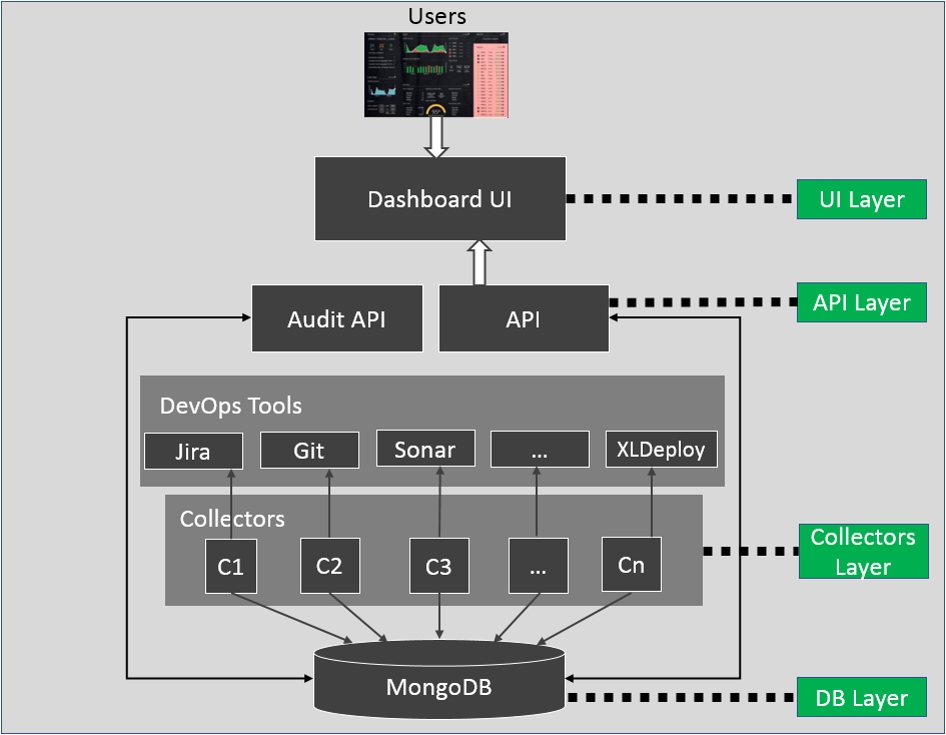
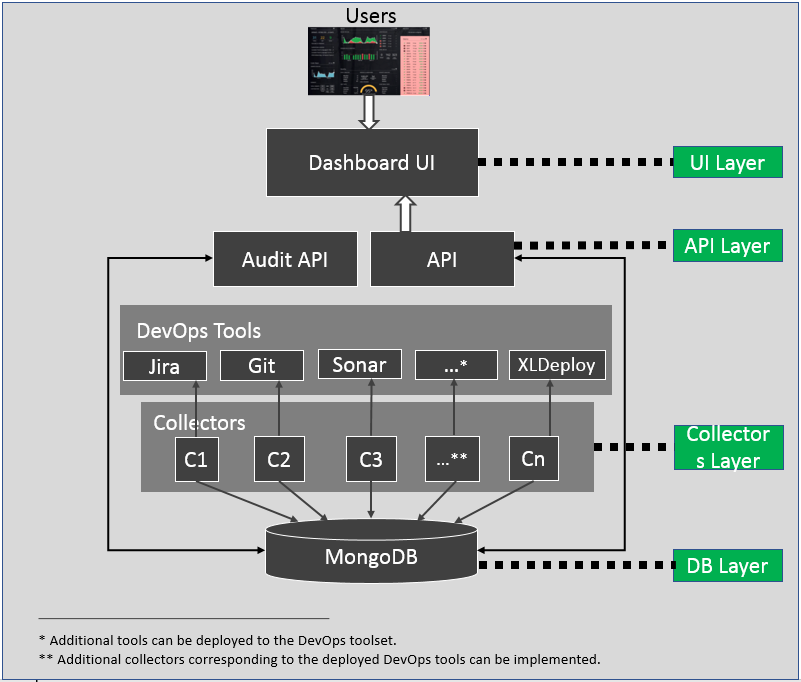
Added create widget, and documentation files; added screenshots (#2326)
* Added create widget, and documentation files; added screenshots

* Architecture screenshot

* Formatting

* Formatted title

* Rename sidebar items

diff --git a/_layouts/page.html b/_layouts/page.html
@@ -43,7 +43,7 @@ layout: default
 
     {% if site.github_editme_path %}
     {% unless page.editme == false %}
-    <a target="_blank" href="https://github.kdc.capitalone.com/{{site.github_editme_path}}{{page.folder}}{{page.url | remove: ".html" | append: ".md"}}" class="btn btn-default githubEditButton" role="button"><i class="fa fa-github fa-lg"></i> Edit me</a>
+    <a target="_blank" href="https://github.com/{{site.github_editme_path}}{{page.folder}}{{page.url | remove: ".html" | append: ".md"}}" class="btn btn-default githubEditButton" role="button"><i class="fa fa-github fa-lg"></i> Edit me</a>
     {% endunless %}
     {% endif %}
 

diff --git a/pages/hygieia/documentation.md b/pages/hygieia/documentation.md
@@ -1,0 +1,69 @@
+---
+title:  Contribute to the Documentation
+tags:
+keywords:
+toc: true
+summary: Brief instructions to help you create new content or edit the existing documentation for Hygieia.
+sidebar: hygieia_sidebar
+permalink: documentation.html
+---
+
+## Create or Edit the Documents
+
+To create and edit markdown files for Hygieia documentation, follow the instructions given below:
+
+
+*	**Step 1: Clone the gh-pages branch from your fork**
+
+    To make updates to documentation locally, clone the gh-pages branch from your fork:
+	
+	```bash
+	git clone -b gh-pages <https://github.com/<your-repo>/Hygieia.git>
+	```
+	
+*	**Step 2: Create and Edit Markdown files**
+    
+    - *Location Details*
+	
+	  All markdown files are saved in the **Pages** folder in the `gh-pages` branch. Create and edit all markdown files in this folder.
+	
+	  All screenshots are saved at `media/images/`. You can add and save all screenshots to this folder.
+	
+	- *Frontmatter for Pages*
+	
+	  Make sure each page has frontmatter at the top as follows:
+	  
+	  ```properties
+	  ---
+      title: Create and Edit the Documentation
+      toc: true
+      summary: Contribute to Hygieia Documentation by creating new content or editing the existing documentation.
+      sidebar: hygieia_sidebar
+      permalink: documentation.html
+      ---
+	  ```
+	  
+	For a tutorial on GitHub-flavored markdown, see the [GitHub Guide]( https://guides.github.com/features/mastering-markdown/).
+
+*	**Step 3: Make Changes to the Table of Contents**	
+	
+    To link new files to the table of contents, edit the YAML files available in the `/_data/sidebars` folder in `gh-pages` branch. 
+	
+    To make changes to the top-navigation in the web pages, edit the `topnav.yml` file in the `/_data` folder.
+
+*	**Step 4: Commit Changes**	
+    
+	Once you finish making changes to the markdown files, commit your changes.
+	In the command line or terminal, execute the following steps:
+	
+	```bash
+    git add <your file name>
+    git commit -m “Initial commit”
+    git push origin gh-pages
+	```
+	
+*	**Step 5: Create a Pull Request**	
+
+    To propose your changes to Hygieia documentation, create and submit a pull request. For information on Pull Requests, see the [GitHub documentation]( https://help.github.com/articles/creating-a-pull-request/#creating-the-pull-request).
+
+**Note**: For information about this theme and to build the site locally, follow the instructions [here](http://idratherbewriting.com/documentation-theme-jekyll/index.html).

diff --git a/pages/hygieia/create_widget.md b/pages/hygieia/create_widget.md
@@ -1,0 +1,39 @@
+---
+title: Guidelines to Create a Widget
+tags: 
+summary: These brief instructions will help you create a new widget on the Hygieia dashboard.
+toc: true
+sidebar: hygieia_sidebar
+permalink: create_widget.html
+---
+
+To create a new widget in Hygieia:
+
+1. Model your widget after one of the existing widgets, such as the deploy or build widget available at `/UI/src/components/widgets/`. Customize your module, config, style, view, html,  and ".js" files as needed.
+
+2. For the widget to appear on the dashboard, use one of the following options:
+
+   **Option 1**
+   
+   In the `UI/src/components/templates/` directory, add the following section in the template to match the widget you are building:
+
+
+	```html
+	<div class="container-fluid" widget-container dashboard="ctrl.dashboard" ng-if="template.widgetView == 'your-widget-name'">
+			<div class="row">
+				<div class="col-xs-12">
+					<widget name="your-widget-name" widget-title="Your-widget-title"></widget>
+				</div>
+			</div>
+		</div>
+	```
+	
+	**Option 2**
+	
+	When you create a team dashboard in Hygieia, in the **Create a new dashboard** screen, choose **Select Widgets** radio button. Enter all other required information and click **Create**. This invokes the **Widget Management** screen. From the list of widgets, select your widget along with any other widgets, and then click **Create**.
+	
+	![Image](http://capitalone.github.io/Hygieia/media/images/widget_management.png)
+	
+	For more information, see the [Team Dashboard](../product1/create_team_dashboard.md) documentation. 
+	
+	

diff --git a/pages/product1/create_team_dashboard.md b/pages/product1/create_team_dashboard.md
@@ -11,6 +11,9 @@ permalink: create_team_dashboard.html
 To create a new team dashboard:
 
 1. In the **Team Dashboards** tab, click **Create a new dashboard**. This invokes the **Create a New Dashboard** screen.
+
+![Image](http://capitalone.github.io/Hygieia/media/images/create_team_dashboard.png)
+
 2. Enter the following details:
    - Select the dashboard type as **Team Dashboard** from the dropdown list.
    - Choose **Select Widgets** radio button to customize the dashboard layout while creating a new dashboard.
@@ -37,7 +40,11 @@ To create a new team dashboard:
 	 
 3. Click **Create**.
 
-If you have chosen **Select Widgets** radio button, then the **Widget Management** screen in invoked. In this screen, choose widgets from the list of widgets, and then click **Create**. The team dashboard is created.
+If you have chosen **Select Widgets** radio button, then this option invokes the **Widget Management** screen. 
+
+![Image](http://capitalone.github.io/Hygieia/media/images/widget_management.png)
+
+In this screen, choose widgets from the list of widgets, and then click **Create**. The team dashboard is created.
 
 If you have chosen **Select Template** radio button, then the team dashboard is created based on the template you have selected.
 

diff --git a/pages/product1/dashboard_administration.md b/pages/product1/dashboard_administration.md
@@ -31,3 +31,5 @@ To delete a dashboard:
  
 The dashboard is deleted.
 
+![Image](http://capitalone.github.io/Hygieia/media/images/dashboard_administration.png)
+

diff --git a/pages/hygieia/contribute.md b/pages/hygieia/contribute.md
@@ -1,5 +1,5 @@
 ---
-title: Contribution Guidelines
+title: Contribution Agreement
 tags: 
 toc: false
 sidebar: hygieia_sidebar
